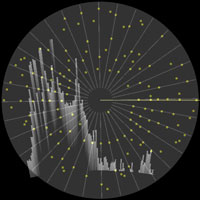
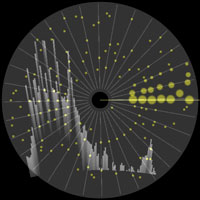
Add files via upload

diff --git a/experiment/glsl/oto_13/oto_13.html b/experiment/glsl/oto_13/oto_13.html
@@ -166,9 +166,16 @@ const pos_p = new Float32Array( 3 * 150);
 const geo_p = new THREE.BufferGeometry();
 geo_p.setAttribute( "position", new THREE.BufferAttribute( pos_p, 3));
 const obj_p = new THREE.Points( geo_p, new THREE.ShaderMaterial( {
+	uniforms : { r : {}},
 	vertexShader: `
+		uniform float r;
+
 		void main(){
-			gl_PointSize = 7.0;
+			float a;
+
+			a = atan( position.y, position.x) + r;
+			a = float( 0.0 < cos( a)) * float( 0.0 <= sin( a)) * max( min( 1.0 - 2.0 * tan( a), 1.0), 0.0);
+			gl_PointSize = 7.0 + 20.0 * a;
 			gl_Position = projectionMatrix * modelViewMatrix * vec4( position, 1.0);
 		}
 	`,
@@ -595,6 +602,7 @@ function tac(){
 	}
 
 	obj_p.rotation.z = 6.28318 * count / 3/ 768;
+	obj_p.material.uniforms.r.value = 6.28318 * count / 3/ 768;
 
 	ren.render( scene, cam);
 
